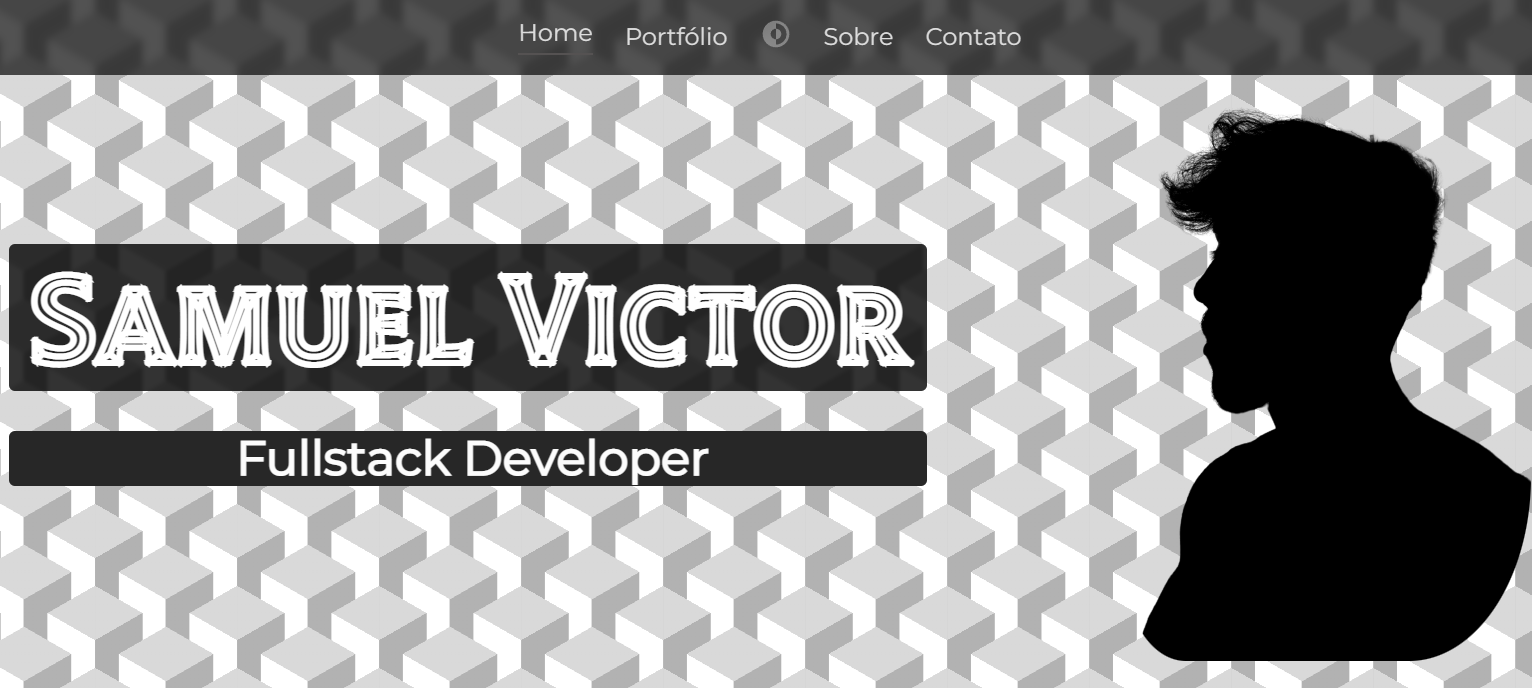
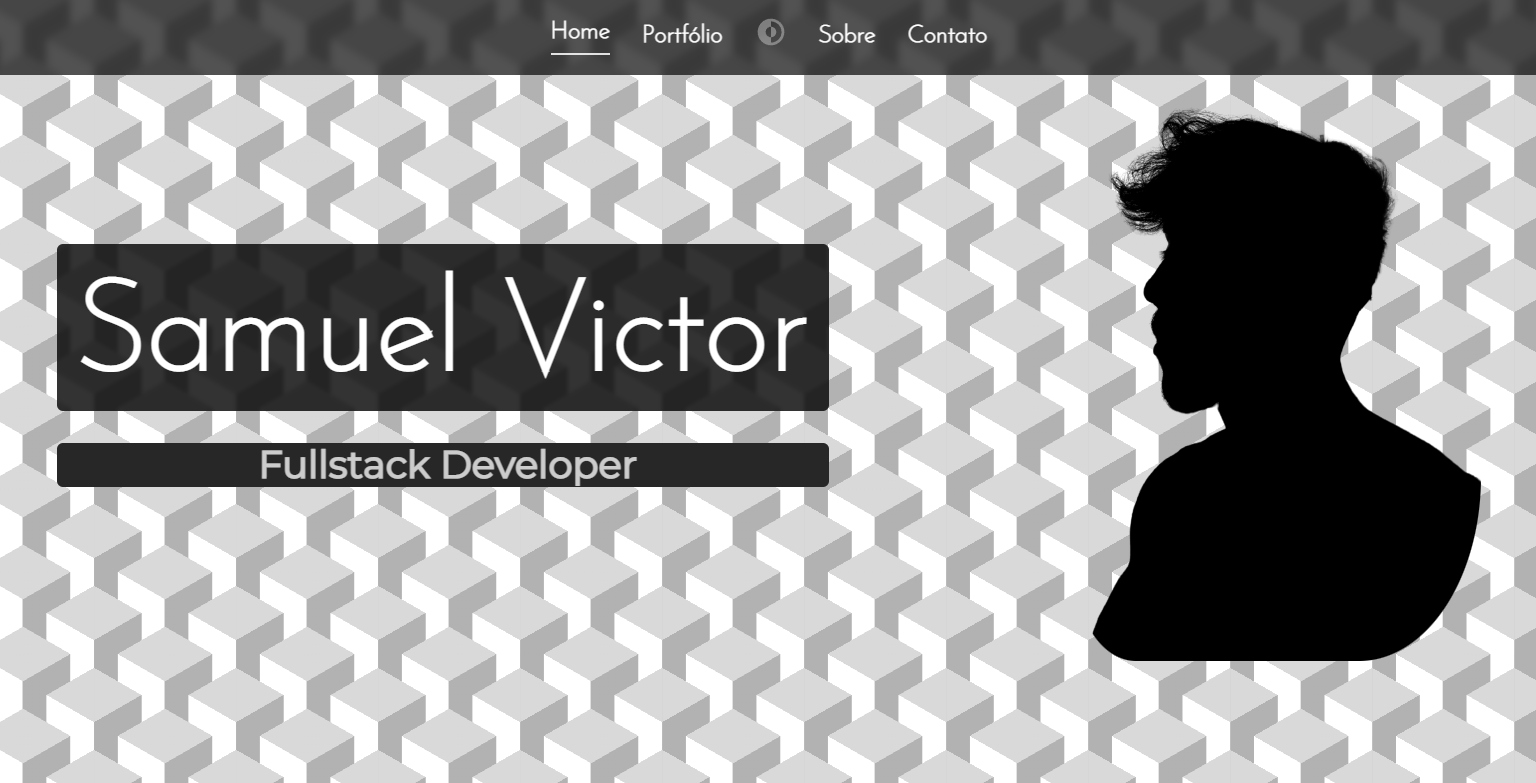
Visual fixes

diff --git a/src/app/portfolio/portfolio.component.ts b/src/app/portfolio/portfolio.component.ts
@@ -16,7 +16,7 @@ export class PortfolioComponent {
   }
   cards = [
     { title: 'Portfólio Pessoal', desc: 'Criação do meu Portfólio Pessoal utilizando Angular, deploy no GitHub Pages e utiliza EmailJS na tela de contatos para enviar formulário pro meu email profissional.', url: 'https://github.com/samuelvictorol/portfolio', img: 'assets/portImg.png', target: '_blank' },
-    { title: 'PUMA', desc: 'O projeto de Plataforma Unificada de Metodologias Ativas (PUMA) de 2022.1 é uma continuação dos semestres passados, sendo desenvolvido pelas disciplinas de EPS e MDS. O PUMA é um projeto que tem por objetivo auxiliar os professores no gerenciamento das disciplinas da Engenharia de Produção da Universidade de Brasilia.', img: 'assets/pumaImg.png', url: 'https://fga-eps-mds.github.io/2022-1-PUMA-Doc/' , target: '_blank' },
+    { title: 'PUMA', desc: 'Sendo desenvolvido pelas disciplinas de EPS e MDS, o PUMA é um projeto que tem por objetivo auxiliar os professores no gerenciamento das disciplinas da Engenharia de Produção da Universidade de Brasilia.', img: 'assets/pumaImg.png', url: 'https://fga-eps-mds.github.io/2022-1-PUMA-Doc/' , target: '_blank' },
     { title: 'Conversor MP3 e MP4', desc: 'Conversor de vídeos com suporte para múltiplas plataformas que converte gratuitamente para mp3 ou mp4 a partir do link fornecido utilizando apenas Typescript, HTML, CSS e uma API externa.', url: 'conversor', img: 'assets/conversorImg.png', target: '_self'},
     { title: 'Ecommerce Django', desc: 'Ecommerce em Django (em construção), projeto fullstack de um Ecommerce de roupas com autenticação e integração com api de pagamento.', url:'https://github.com/samuelvictorol/DJANGOEcommerce', img:'assets/ecommerceImg.png', target: '_blank'},
     { title: 'Em breve :)', desc: 'lorem Ipsum  is Lorem Ipsum' },

diff --git a/src/app/home/home.component.scss b/src/app/home/home.component.scss
@@ -28,28 +28,29 @@
 .text {
   padding-top: 12vh;
 }
-
+@import url('https://fonts.googleapis.com/css2?family=Josefin+Sans:wght@100&display=swap');
 h1 {
   border-radius: 6px;
   color: #fff;
   font-size: 8rem;
   margin: 0;
-  font-family: 'Tilt Prism', cursive;
+  font-family: 'Josefin Sans', sans-serif;
   background: #000000cc;
   backdrop-filter: blur( 2px );
   -webkit-backdrop-filter: blur( 3px );
   margin-top: 5rem;
-  padding-left: 1vw ;
+  padding-left: 1vw;
+  padding-top: 2vh;
   padding-right: 1vw;
 }
 
 h2 {
   font-family: 'Montserrat', Arial;
-  font-size: 3rem;
+  font-size: 2.4rem;
   text-align: center;
 
   background-color: #272727;
-  color: #FCFCFC;
+  color: #fcfcfcc5;
   border-radius: 6px;
   padding-left: .5vw;
 }
@@ -80,10 +81,10 @@ h1::selection, h2::selection{
   h1 {
     border-radius: 6px;
     padding: 1vh 1vw;
-    font-family: 'Tilt Prism', cursive;
+    font-family: 'Josefin Sans', sans-serif;
     font-size: 4rem;
     text-align: center;
-
+    padding-top: 2vh;
   }
 
   h2 {

diff --git a/src/app/portfolio/portfolio.component.scss b/src/app/portfolio/portfolio.component.scss
@@ -30,9 +30,12 @@
   transition: all .4s;
   opacity: .1;
   border: 4px solid #3c3c3c;
+  filter: brightness(.3);
 }
 
 .card:hover{
+  cursor: pointer;
+  filter: none;
   transform: rotate(0deg);
   -webkit-box-shadow: 5px 6px 0px 4px #2b2b2b; 
   box-shadow: 5px 6px 0px 4px #3c3c3c;
@@ -56,7 +59,7 @@ h1 {
   font-weight: bold;
   color: #ececec;
   font-size: 5vh;
-  font-family: 'Space Grotesk', sans-serif;
+  font-family: 'Tilt Prism', sans-serif;
 }
 
 p{
@@ -69,6 +72,7 @@ p{
   display: none;
   transition: all .4s;
   color: #c5c5c5;
+  
 }
 
 .card:hover p {
@@ -115,6 +119,7 @@ p{
     width: 90vw;
     height: 80vh;
     background-position-x: center;
+    filter: none;
   }
   
   .card-text{

diff --git a/src/app/portfolio/portfolio.component.html b/src/app/portfolio/portfolio.component.html
@@ -1,6 +1,7 @@
 <div class="portfolio-wrapper animate__animated animate__fadeIn">
     <div class="cards-wrapper">
-        <div *ngFor="let card of cards" style="background-image: url('{{ card.img }}'); background-size: cover;" class="card animate__animated animate__fadeInDown" >
+        <div *ngFor="let card of cards" style="background-image: url('{{ card.img }}'); background-size: cover;" class="card animate__animated animate__fadeInDown">
+            
             <div class="card-text" >
                 <h1>{{ card.title }}</h1>
                 <p class="animate__animated animate__fadeInUp">{{ card.desc }}</p>

diff --git a/src/styles.scss b/src/styles.scss
@@ -2,8 +2,10 @@
 @import url('https://fonts.googleapis.com/css2?family=Babylonica&family=Gloock&family=Montserrat:wght@300;400&family=Quicksand&family=Satisfy&display=swap');
 @import url('https://fonts.googleapis.com/css2?family=Montserrat:wght@300;400&family=Tilt+Prism&display=swap');
 @import url('https://fonts.googleapis.com/css2?family=Space+Grotesk:wght@300&display=swap');
+@import url('https://fonts.googleapis.com/css2?family=Josefin+Sans:wght@100&display=swap');
 
-html {
+
+  html {
   width: 100vw;
   height: 100%;
   transition: all .4s;

diff --git a/src/app/nav/nav.component.scss b/src/app/nav/nav.component.scss
@@ -16,8 +16,9 @@
 }
 
 a {
-  font-weight: normal;
-  color: rgb(221, 221, 221);
+  font-family: 'Josefin Sans', sans-serif;
+  font-weight: bold;
+  color: rgb(255, 255, 255);
   text-decoration: none;
   font-size: 1.5rem;
   transition: all 0.1s;
@@ -26,7 +27,7 @@ a {
 
 .a-selected {
   padding-bottom: .4rem;
-  border-bottom: 2px solid #555252;
+  border-bottom: 2px solid #ffffffd8;
 }
 
 .darkmode-btn {
